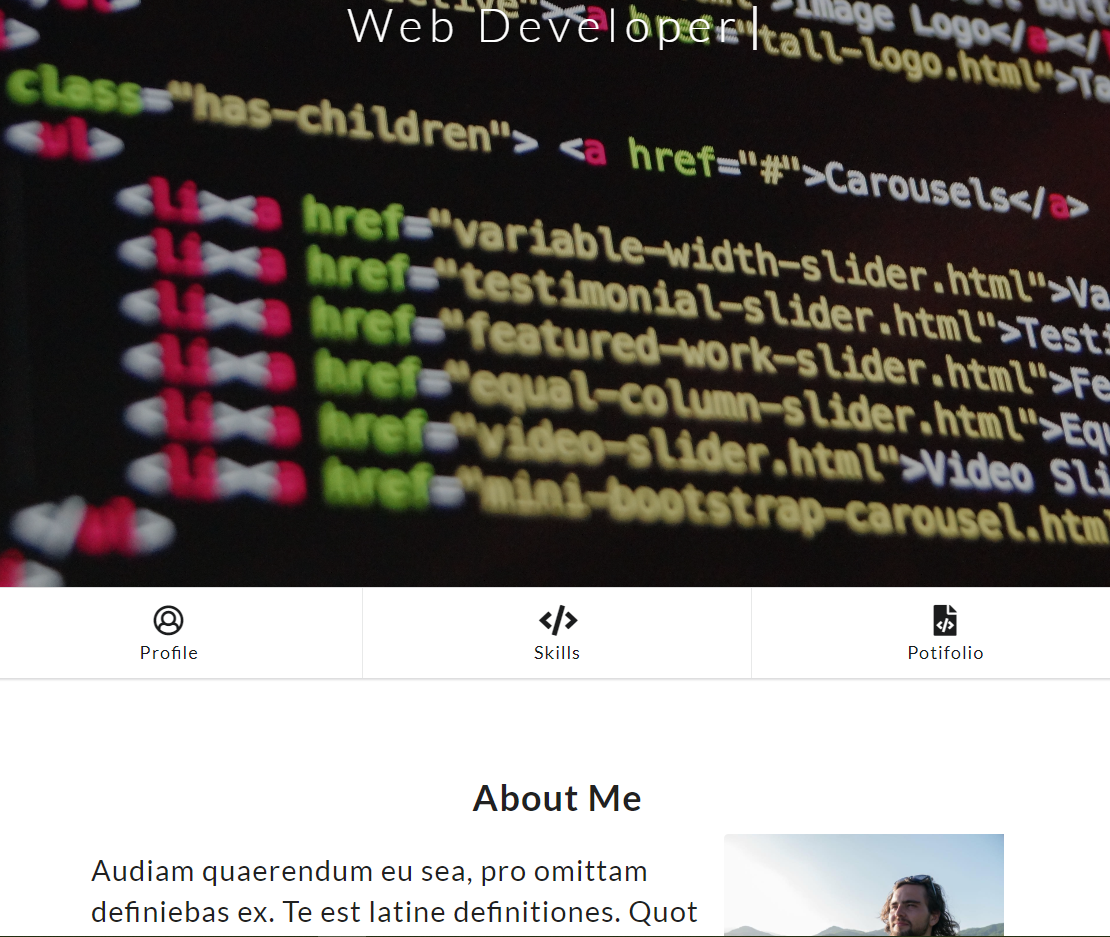
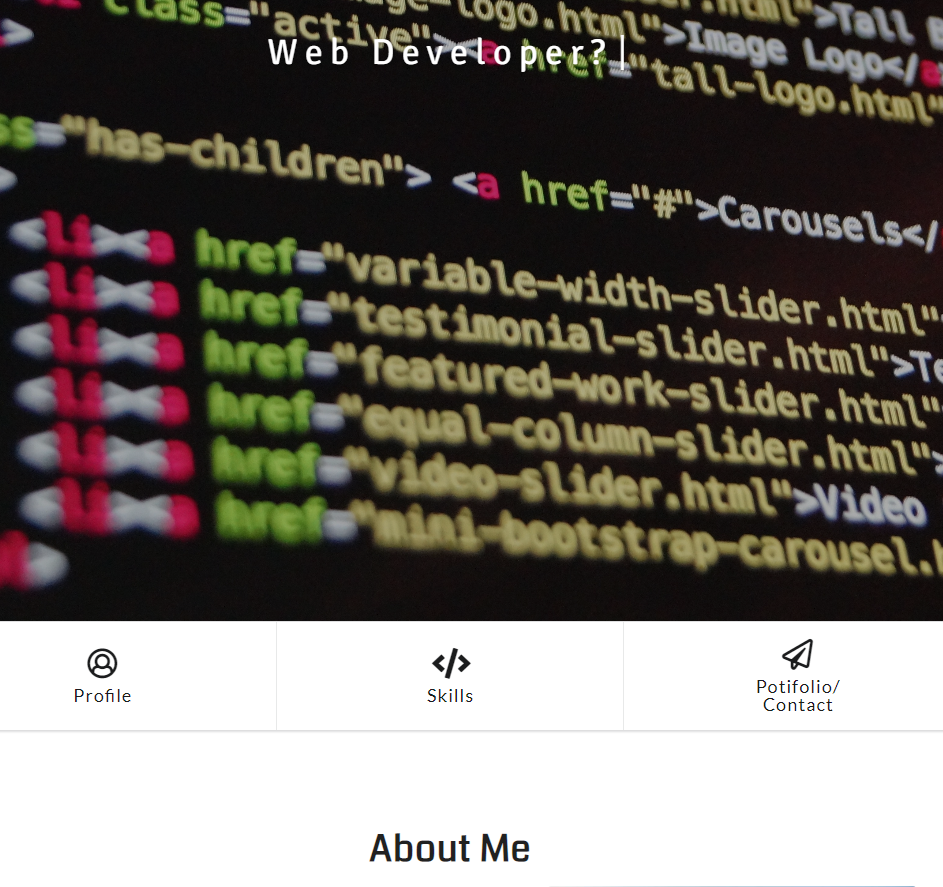
Updated all the text

diff --git a/public/stylesheets/main.css b/public/stylesheets/main.css
@@ -170,7 +170,8 @@ body .ui .header {
 /* =============== Conatct ================ */
 
 #contact {
-	background-color: #3498db;
+	background: rgb(255,255,255);
+background: linear-gradient(0deg, rgba(255,255,255,1) 0%, rgba(52,152,219,0.969625350140056) 48%, rgba(52,152,219,1) 100%);
 	height: 300px;
 	color: white;
 }
